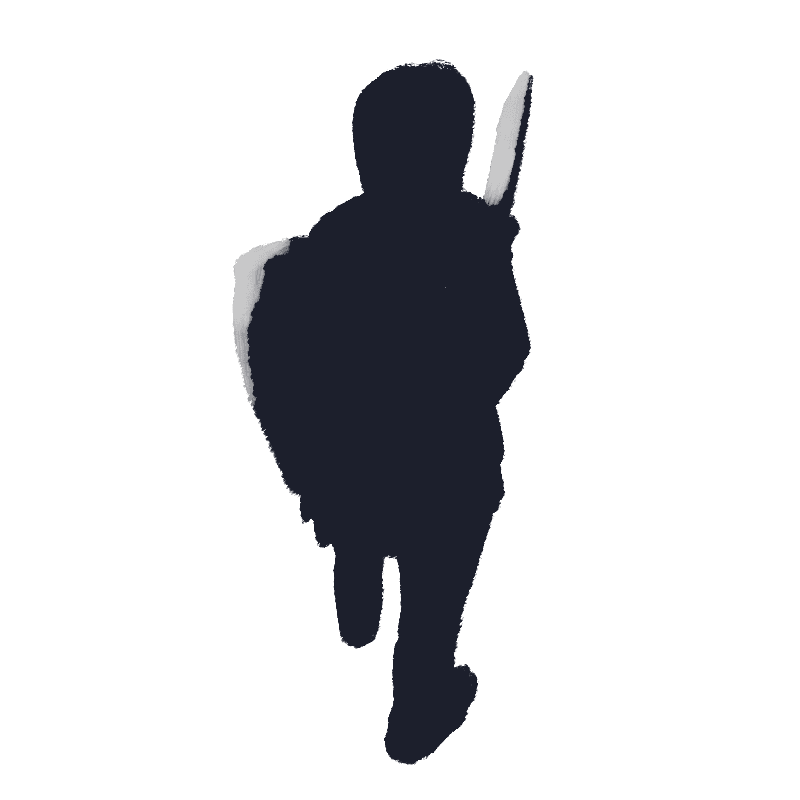
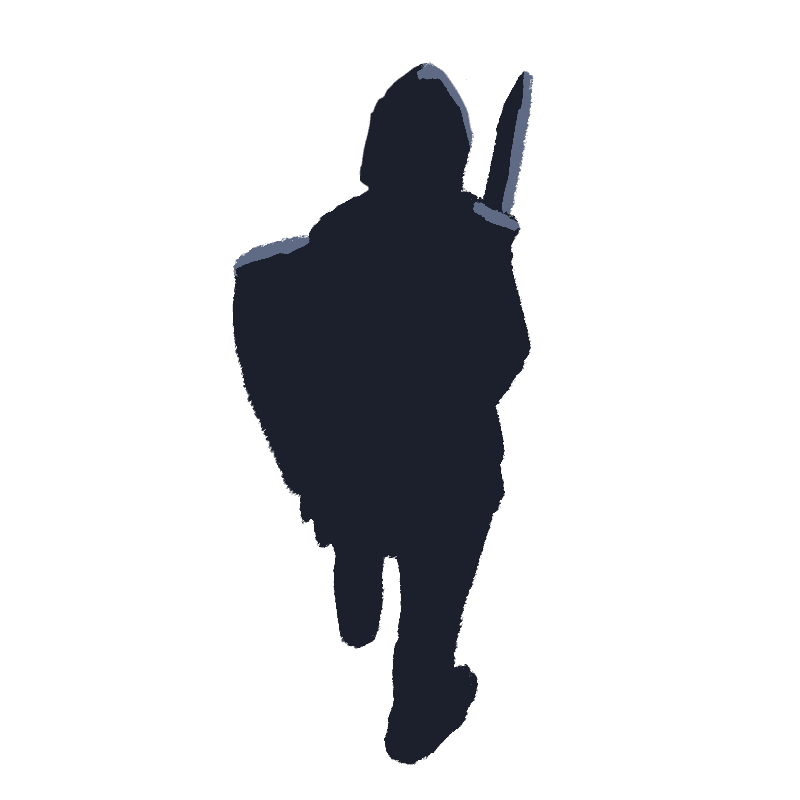
Finished implementing the graphical interface for the game.  Added buttons to play and reset the game.  Recolored the player sprite.  Added health bars.

Changed region(s): [[0.4375, 0.0625, 0.6875, 0.3125], [0.2812, 0.2812, 0.4062, 0.5]]

diff --git a/rps.js b/rps.js
@@ -1,87 +1,119 @@
 
+const gameText = document.querySelector(".gameText");
+//gameText.textContent = "hey hey people";
+let gameOver = false;
 
 const buttons = document.querySelectorAll(".choiceButton");
+
 buttons.forEach((choiceButton) =>{
     choiceButton.addEventListener('click', () =>{
-        alert(choiceButton.textContent);
+        buttonHit(choiceButton.textContent);
+        console.log("Player life: " + playerLife + " Enemy Life: " + compLife);
     });
 });
+
+const resetBut = document.querySelector(".resetButton");
+resetBut.addEventListener('click', () =>{
+    resetGame();
+});
+
+let playerLife = 5;
+let compLife = 10;
 
 function computerPlay(){
     let roll = Math.random();
     if (roll > .66666){
-        return "ROCK";
+        return "SWORD";
     }
     else if (roll > .33333){
-        return "PAPER";
+        return "BOW";
     }
     else{
-        return "SCISSORS";
+        return "MAGIC";
     }
 }
 
 function playRound(playerChoice, computerChoice, playerScore, compScore){
     playerChoice = playerChoice.toUpperCase();
+    gameText.textContent += "Smouldering Knight picks " + computerChoice + "...\n";
     console.log(" Computer picks: " + computerChoice.toLowerCase());
     if (playerChoice === computerChoice){
+        gameText.textContent += "...you find yourselves evenly matched.";  
         console.log("...No score...");
         return;
     }
-    if (playerChoice == "ROCK"){
-        if (computerChoice === "SCISSORS"){
-            playerScore++;
+    if (playerChoice == "SWORD"){
+        if (computerChoice === "MAGIC"){
+            //compLife--;
+            gameText.textContent += "As the knight prepares a spell, you easily strike him.";
             console.log("~Player scores!~")
             return 1;
         }
-        else if (computerChoice === "PAPER"){
-            compScore++;
+        else if (computerChoice === "BOW"){
+            //playerLife--;
+            gameText.textContent += "The knight fires an arrow, which hits you square in the torso.";
             console.log("~Computer scores!~")
             return 2;
         }
     }
-    else if (playerChoice == "SCISSORS"){
-        if (computerChoice === "PAPER"){
-            playerScore++;
+    else if (playerChoice == "MAGIC"){
+        if (computerChoice === "BOW"){
+            //compLife--;
+            gameText.textContent += "The knight reels back, struck by your bolt of arcane magic.";
             console.log("~Player scores!~")
             return 1;
         }
-        else if (computerChoice === "ROCK"){
-            compScore++;
+        else if (computerChoice === "SWORD"){
+            //playerLife--;
+            gameText.textContent += "You feel a sharp sting, the knight has struck you a grave blow.";
             console.log("~Computer scores!~")
             return 2;
         }
     }
-    else if (playerChoice == "PAPER"){
-        if (computerChoice === "ROCK"){
-            playerScore++;
+    else if (playerChoice == "BOW"){
+        if (computerChoice === "SWORD"){
+            //compLife--;
+            gameText.textContent += "The knight rushes at you!  Luckily, you've already let slip an arrow that finds its mark.";
             console.log("~Player scores!~")
             return 1;
         }
-        else if (computerChoice === "SCISSORS"){
-            compScore++;
+        else if (computerChoice === "MAGIC"){
+            //playerLife--;
+            gameText.textContent += "As you reach for an arrow, you are knocked back by a powerful magic blast.";
             console.log("~Computer scores!~")
             return 2;
         }
     }
 }
 
-function playerInput(){
-    let invalid = false;
-    do {
-        if (invalid){console.log("INVALID ENTRY, please try again...");}
-        playerChoice = window.prompt("ROCK, PAPER, or SCISSORS?");
-        invalid = true;
+function buttonHit(choice){
+    gameText.textContent = "";
+    if (gameOver){
+        return;
     }
-    while(playerChoice.toUpperCase() !== "ROCK" && playerChoice.toUpperCase() !== "SCISSORS" && playerChoice.toUpperCase() !== "PAPER");
-    console.log(" Player picks: " + playerChoice.toLowerCase());
-    return playerChoice;
+    let computerChoice = computerPlay();
+    whoScored = playRound(choice, computerChoice, playerLife, compLife);
+    if (whoScored === 1){
+        compLife--;
+    }
+    else if (whoScored == 2){
+        playerLife--;
+    }
+    document.getElementById('#playerLife').style.width = (playerLife * 20) +"%";
+    document.getElementById('#enemyLife').style.width = (compLife * 10) +"%";
+    if (playerLife <= 0){
+        gameOver = true;
+        document.querySelector(".youDied").classList.add('endTrigger');
+    }
+    else if (compLife <= 0){
+        gameOver = true;
+        document.querySelector(".youWin").classList.add('endTrigger');
+    }
 }
 
 function game(){
 
     console.log("BEGIN GAME!!!");
-    let playerScore = 0;
-    let compScore = 0;
     for (let i = 0; i < 5; i++){
         console.log("ROUND " + (1 + i) + " BEGINS");
         let computerChoice = computerPlay();
@@ -98,6 +130,17 @@ function game(){
     else if (compScore > playerScore){console.log("---COMPUTER VICTORY---");}
     else{console.log("---DRAW---");}
     console.log("FINAL SCORE: " + playerScore + " to " + compScore);
+}
+
+function resetGame(){
+    gameText.textContent = "Sword beats magic.  Magic beats bow.  Bow beats sword.";
+    document.querySelector(".youDied").classList.remove('endTrigger');
+    document.querySelector(".youWin").classList.remove('endTrigger');
+    playerLife = 5;
+    compLife = 10;
+    document.getElementById('#playerLife').style.width = (playerLife * 20) +"%";
+    document.getElementById('#enemyLife').style.width = (compLife * 10) +"%";
+    gameOver = false;
 }
 
 

diff --git a/styles.css b/styles.css
@@ -9,7 +9,8 @@ html{
 
 .enemyDiv{
     background: url('img/darkknights.png');
-    background-size: cover;
+    background-size: contain;
+    background-repeat: no-repeat;
     position: fixed;
     top: 20%;
     left: 60%;
@@ -19,7 +20,8 @@ html{
 
 .playerDiv{
     background: url('img/darkknights1.png');
-    background-size: cover;
+    background-size: contain;
+    background-repeat: no-repeat;
     position: fixed;
     top: 50%;
     left: 20%;
@@ -41,22 +43,53 @@ html{
     width: 30%;
 }
 
+.gameTextDiv{
+    position: fixed;
+    top: 2%;
+    left: 40%;
+    height: 15%;
+    width: 55%;
+}
+
+.gameText{
+    color: white;
+    text-align: center;
+    white-space: pre-line;
+    font-size: 28px;
+    font-family: "Cormorant", serif;
+    text-shadow: 2px 1px #000000;
+    font-weight: 500;
+}
+
 .healthBarEnemy{
     position: fixed;
     top: 85%;
-    left: 22%;
+    left: 25%;
     height: 1%;
     width: 56%;
 }
 
+.lifeBar{
+    background-color: rgb(138, 19, 19);
+    height: 80%;
+    width: 100%;
+}
+
+.lifeBarEnemy{
+    background-color: rgb(34, 116, 27);
+    height: 80%;
+    width: 100%;
+}
+
 .enemyName{
     color: white;
-    font-size: 18px;
+    font-size: 22px;
+    font-family: "Cormorant", serif;
     text-shadow: 2px 1px #000000;
-    font-family: 900;
+    font-weight: 500;
     position: absolute;
     top: 79%;
-    left: 23%;
+    left: 26%;
 }
 
 .buttonAreaDiv{
@@ -71,17 +104,53 @@ html{
 }
 
 .choiceButton{
-    background-color: #1a1a1a;
+    background-color: #0e0e0e;
+    background-size: contain;
+    background-repeat: no-repeat;
     align-self: center;
+    font-size: 0;
     color: #d4d0a6;
-    border-color: rgb(109, 109, 109);
+    border-color: #d4d0a6;
     border-style: solid;
-    border-width: 1px;
+    border-width: 2px;
     border-radius:  2px;
     width: 30%;
     height: 43%;
     opacity: 0.8;
     transition: 0.3s;
+}
+
+.resetButton{
+    color: #d4d0a6;
+    border-color: #d4d0a6;
+    border-style: solid;
+    border-width: 2px;
+    border-radius:  2px;
+    background-color: #0e0e0e;
+    font-size: 20px;
+    font-family: "Cormorant", serif;
+    text-shadow: 2px 1px #000000;
+    font-weight: 500;
+    position: absolute;
+    left: 85%;
+    top: 90%;
+    width: 12%;
+    height: 4%;
+    transition: 0.3s;
+}
+
+.resetButton:hover{
+    transform: scale(1.06);
+}
+
+.sword{
+    background-image: url('img/darkitem1.png');
+}
+.magic{
+    background-image: url('img/darkitem3.png');
+}
+.bow{
+    background-image: url('img/darkitem2.png');
 }
 
 .buttonOffset{
@@ -93,3 +162,38 @@ html{
     transform: scale(1.06);
 }
 
+.youDied{
+    opacity: 0;
+    transition: opacity 2s;
+    transition-timing-function: ease-in;
+    font-size: 140px;
+    font-weight: 500;
+    font-family: "Cormorant", serif;
+    text-align: center;
+    color: rgb(138, 19, 19);
+    position: fixed;
+    width: 80%;
+    height: 30%;
+    top: 40%;
+    left: 10%;
+}
+
+.youWin{
+    opacity: 0;
+    transition: opacity 2s;
+    transition-timing-function: ease-in;
+    font-size: 100px;
+    font-weight: 500;
+    font-family: "Cormorant", serif;
+    text-align: center;
+    color: rgb(38, 122, 201);
+    position: fixed;
+    width: 80%;
+    height: 30%;
+    top: 40%;
+    left: 10%;
+}
+
+.endTrigger{
+    opacity: 1;
+}

diff --git a/index.html b/index.html
@@ -6,30 +6,40 @@
     <meta name="viewport" content="width=device-width, initial-scale=1.0">
     <title>Rock-Paper-Scissors</title>
     <script src="rps.js" defer></script>
+    <link rel="stylesheet" href="https://fonts.googleapis.com/css?family=Cormorant">
     <link rel="stylesheet" href="styles.css" />
 </head>
 <body>
+    
 <div class="enemyDiv">
 </div>
 <div class="playerDiv">
 </div>
 
 <div class="healthBar healthBarPlayer">
-
+    <div class="lifeBar" id=#playerLife></div>
 </div>
 
 <div class="healthBar healthBarEnemy">
-
+    <div class="lifeBar" id="#enemyLife"></div>
 </div>
 
-<p class="enemyName">Knight of Smoulder</p>
+<p class="enemyName">Smouldering Knight</p>
 
 <div class="mainBody">
     <div class="buttonAreaDiv">
-        <button class="choiceButton">One</button>
-        <button class="choiceButton buttonOffset">Two</button>
-        <button class="choiceButton">Three</button>
+        <button class="choiceButton sword">SWORD</button>
+        <button class="choiceButton buttonOffset magic">MAGIC</button>
+        <button class="choiceButton bow">BOW</button>
     </div>
 </div>
+
+<div class="gameTextDiv">
+    <p class="gameText">Sword beats magic.  Magic beats bow.  Bow beats sword.</p>
+</div>
+
+<div class="youDied">YOU DIED</div>
+<div class="youWin">KNIGHT VANQUISHED!</div>
+<button class="resetButton">Reset Game</button>
 </body>
 </html>
